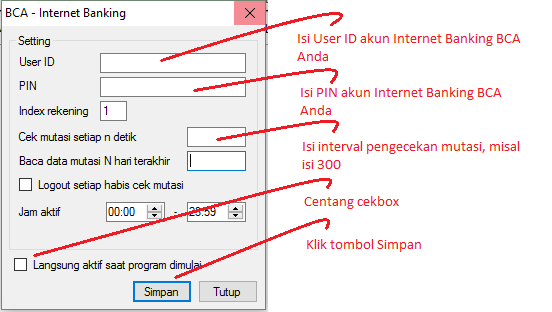
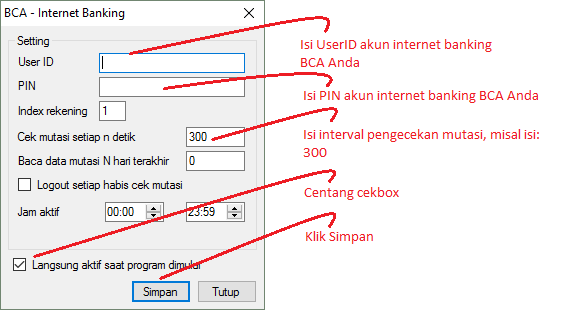
fix explanation of ibank

Changed region(s): [[0.0, 0.0, 0.9547, 1.0]]

diff --git a/mandiri.html b/mandiri.html
@@ -82,7 +82,16 @@
         <div id="content">
             <h3>Mandiri</h3>
             
-            <p>Modul <b>Mandiri</b> berguna untuk membaca mutasi di <a href="https://ib.bankmandiri.co.id/retail/Login.do?action=form&lang=in_ID" target="_blank">Mandiri Internet</a> sehingga deposit Reseller dapat masuk secara otomatis (tanpa campur tangan operator server) sesaat setelah Reseller melakukan transfer. Modul ini hanya tersedia di OtomaX edisi Advanced, Enterprise dan Ultimate <a href="price-plan.html" target="_blank">klik disini</a>. Apabila Anda belum mempunyai OtomaX <a href="purchase.html" target="_blank">klik disini</a>; dan apabila sudah memiliki namun belum edisi tersebut untuk menikmatinya Anda harus melakukan Upgrade <a href="bagaimana-upgrade-otomax.html" target="_blank">klik disini</a>; dan apabila ingin membayar iuran tahunan OtomaX <a href="bagaimana-membayar-iuran-otomax.html" target="_blank">klik disini</a>.</p>
+            <p>Modul <b>Mandiri</b> berguna untuk membaca mutasi di <a href="https://ib.bankmandiri.co.id/retail/Login.do?action=form&lang=in_ID" target="_blank">Mandiri Internet</a> dan <a href="https://ibank.bankmandiri.co.id/retail3/">Mandiri Online</a> sehingga deposit Reseller dapat masuk secara otomatis (tanpa campur tangan operator server) sesaat setelah Reseller melakukan transfer. Modul ini hanya tersedia di OtomaX edisi Advanced, Enterprise dan Ultimate <a href="price-plan.html" target="_blank">klik disini</a>. Apabila Anda belum mempunyai OtomaX <a href="purchase.html" target="_blank">klik disini</a>; dan apabila sudah memiliki namun belum edisi tersebut untuk menikmatinya Anda harus melakukan Upgrade <a href="bagaimana-upgrade-otomax.html" target="_blank">klik disini</a>; dan apabila ingin membayar iuran tahunan OtomaX <a href="bagaimana-membayar-iuran-otomax.html" target="_blank">klik disini</a>.</p>
+            
+            <div style="color: red;">
+                <b>PERHATIAN:</b> <br>
+                Sebelum mensetting modul internet banking Mandiri, pastikan:
+                <ol>
+                    <li>Telah menginstall Service Pack 1 (SP1) dan Internet Explorer versi 11 apabila menggunakan Windows 7 <a href="download.html#lain-lain" target="_blank">klik disini</a> (download & install).</li>
+                    <li>Telah meng-update Windows.</li>
+                </ol>
+            </div>
             
             <p>
                 Berikut ini langkah - langkah mensettingnya:
@@ -97,11 +106,13 @@
                     </li>
                     <li>Selesai</li>
                 </ol>
+                <br>
             </p>
             
-            <p class="note">
-                <b>Catatan:</b> Khusus pengguna <b>Mandiri Online</b> silahkan <a href="mandiri-online.html" target="_blank">klik disini</a>.
+            <p>
+                Apabila akun internet banking Anda jenis <b>Mandiri Online</b>, silahkan <a href="mandiri-online.html" target="_blank">klik disini</a>.
             </p>
+                
             
             <div class="bottom-content"></div>
         </div>

diff --git a/bni.html b/bni.html
@@ -84,6 +84,15 @@
             
             <p>Modul <b>BNI</b> berguna untuk membaca mutasi di <a href="https://ibank.bni.co.id/MBAWeb/FMB;jsessionid=0000jAjybiM71iONvneCGVu2Fzo:1a1lkrk1t?page=Thin_SignOnRetRq.xml&MBLocale=bh" target="_blank">Internet Banking BNI versi Mobile</a> sehingga deposit Reseller dapat masuk secara otomatis (tanpa campur tangan operator server) sesaat setelah Reseller melakukan transfer. Modul ini hanya tersedia di OtomaX edisi Advanced, Enterprise dan Ultimate <a href="price-plan.html" target="_blank">klik disini</a>. Apabila Anda belum mempunyai OtomaX <a href="purchase.html" target="_blank">klik disini</a>; dan apabila sudah memiliki namun belum edisi tersebut untuk menikmatinya Anda harus melakukan Upgrade <a href="bagaimana-upgrade-otomax.html" target="_blank">klik disini</a>; dan apabila ingin membayar iuran tahunan OtomaX <a href="bagaimana-membayar-iuran-otomax.html" target="_blank">klik disini</a>.</p>
             
+            <div style="color: red;">
+                <b>PERHATIAN:</b> <br>
+                Sebelum mensetting modul internet banking BNI, pastikan:
+                <ol>
+                    <li>Telah menginstall Service Pack 1 (SP1) dan Internet Explorer versi 11 apabila menggunakan Windows 7 <a href="download.html#lain-lain" target="_blank">klik disini</a> (download & install).</li>
+                    <li>Telah meng-update Windows.</li>
+                </ol>
+            </div>
+            
             <p>
                 Berikut ini langkah - langkah mensettingnya:
                 <ol>

diff --git a/bca.html b/bca.html
@@ -84,6 +84,15 @@
             
             <p>Modul <b>BCA</b> berguna untuk membaca mutasi di <a href="https://ibank.klikbca.com/" target="_blank">Internet Banking BCA</a> sehingga deposit Reseller dapat masuk secara otomatis (tanpa campur tangan operator server) sesaat setelah Reseller melakukan transfer. Modul ini hanya tersedia di OtomaX edisi Advanced, Enterprise dan Ultimate <a href="price-plan.html" target="_blank">klik disini</a>. Apabila Anda belum mempunyai OtomaX <a href="purchase.html" target="_blank">klik disini</a>; dan apabila sudah memiliki namun belum edisi tersebut untuk menikmatinya Anda harus melakukan Upgrade <a href="bagaimana-upgrade-otomax.html" target="_blank">klik disini</a>; dan apabila ingin membayar iuran tahunan OtomaX <a href="bagaimana-membayar-iuran-otomax.html" target="_blank">klik disini</a>.</p>
             
+            <div style="color: red;">
+                <b>PERHATIAN:</b> <br>
+                Sebelum mensetting modul internet banking BCA, pastikan:
+                <ol>
+                    <li>Telah menginstall Service Pack 1 (SP1) dan Internet Explorer versi 11 apabila menggunakan Windows 7 <a href="download.html#lain-lain" target="_blank">klik disini</a> (download & install).</li>
+                    <li>Telah meng-update Windows.</li>
+                </ol>
+            </div>
+            
             <p>
                 Berikut ini langkah - langkah mensettingnya:
                 <ol>

diff --git a/bri.html b/bri.html
@@ -94,6 +94,7 @@
                         <br><br>
                         <img src="images/ibank/ibri.PNG" alt="ibri" width="60%">
                         <br><br>
+                        <span style="color: red;">Jika dalam layanan internet banking BRI Anda terdapat 2 nomor rekening BRI, maka apabila <b>Index rekening</b> diisi 1 mutasi tidak terbaca, isi <b>Index rekening</b> dengan angka 2.</span>
                     </li>
                     <li>Selesai</li>
                 </ol>
